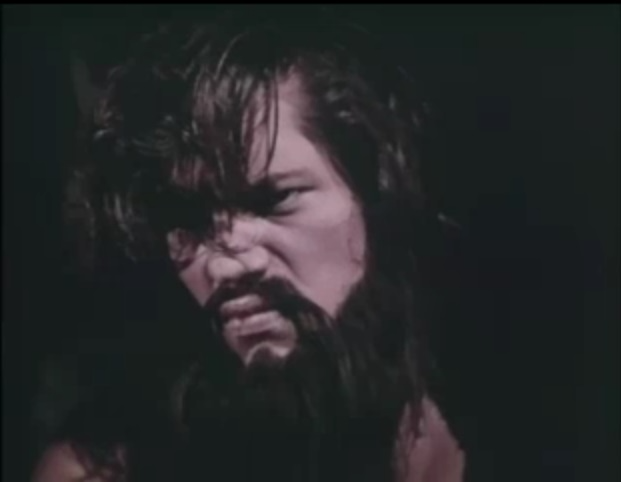
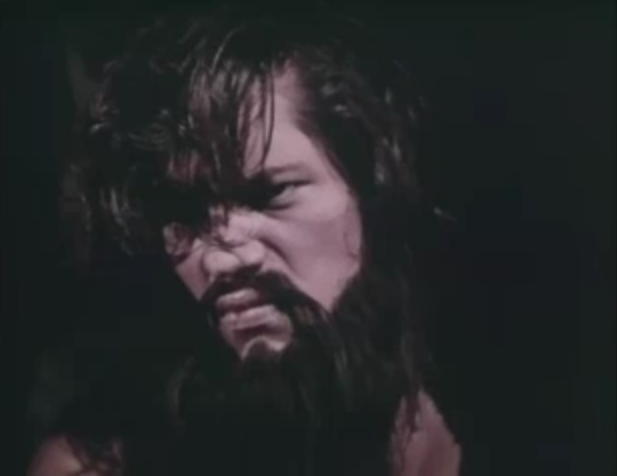
cropping character images

diff --git a/character_game.py b/character_game.py
@@ -27,7 +27,7 @@ CHARACTERS = [
     Character("forrester.png", ["Forrester", "Dr Forrester", "Clayton Forrester", "Dr Clayton Forrester", "mst3kHurt", "mst3kFor"]),
     Character("goosio.png", ["Goosio", "mst3kGoosio"]),
     Character("Growler.png", ["Growler"]),
-    Character("Gypsy_mst3k.png", ["Gypsy", "GPC", "mst3kGypsy", "mst3kGPC"]),
+    Character("gypsy.png", ["Gypsy", "GPC", "mst3kGypsy", "mst3kGPC"]),
     Character("hobgoblins.png", ["Hobgoblins", "Hobgoblin"]),
     Character("jack_perkins.png", ["Jack Perkins", "Perkins", "mst3kPerk"]),
     Character("jan.png", ["Jan in the Pan", "Jan"]),
